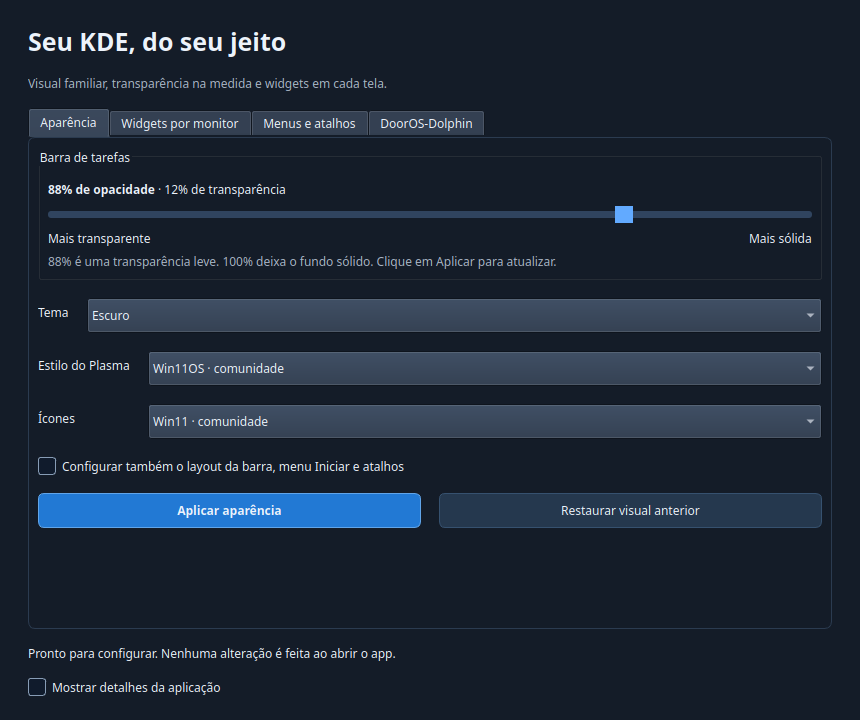
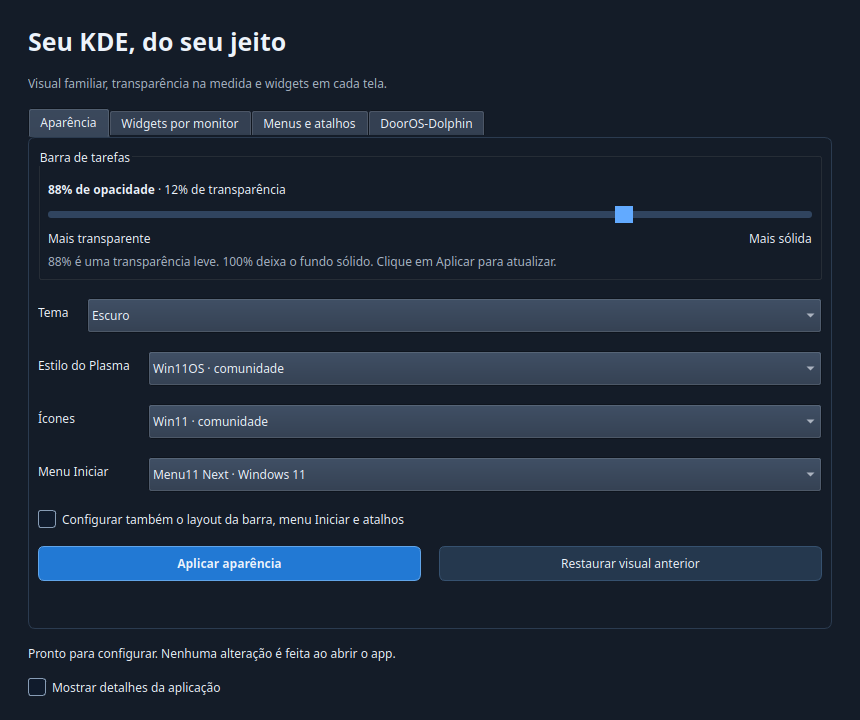
Bundle Menu11 Next and persist Windows taskbar ordering

Changed region(s): [[0.0302, 0.6111, 0.9674, 0.825]]

diff --git a/profile.py b/profile.py
@@ -34,6 +34,7 @@ OWNED += [DATA/'icons'/name for name in [ICON_NAME, ICON_NAME+'-light', ICON_NAM
 OWNED += [DATA/'applications'/name for name in MENU]
 OWNED += [DATA/'icons'/name for name in ['KDEWindowsWin11','KDEWindowsWin11-dark']]
 OWNED += [DATA/'color-schemes'/name for name in ['KDEWindowsWin11Dark.colors','KDEWindowsWin11Light.colors']]
+OWNED += [DATA/'plasma/plasmoids/menu.11.next',DATA/'kde-windows-style/start-menu-icon.svg']
 META, ALT, CTRL, SHIFT = 0x10000000, 0x08000000, 0x04000000, 0x02000000
 TAB, F4 = 0x01000001, 0x01000033
 SHORTCUTS = [
@@ -275,6 +276,33 @@ def install_win11_icons():
     marker.write_text(ref)
 
 
+def install_menu11():
+    archive=ROOT/'vendor/menu11-next.tar.gz'
[1 lines of base64/hex data omitted]
+    if not archive.is_file() or hashlib.sha256(archive.read_bytes()).hexdigest()!=digest:
+        raise RuntimeError('Menu11 Next incluso ausente ou corrompido.')
+    target=DATA/'plasma/plasmoids/menu.11.next'
+    with tempfile.TemporaryDirectory() as temp:
+        with tarfile.open(archive) as tar:
+            tar.extractall(temp,filter='data')
+        meta=json.loads((Path(temp)/'metadata.json').read_text())
+        if meta['KPlugin']['Id']!='menu.11.next':raise RuntimeError('Pacote Menu11 inesperado.')
+        if target.exists():shutil.rmtree(target)
+        shutil.copytree(temp,target)
+    print('Menu11 Next 1.3 instalado, de Eisteed.')
+
+
+def install_start_icon():
+    target=DATA/'kde-windows-style/start-menu-icon.svg'
+    with tarfile.open(community_archive('win11-icons')) as tar:
+        suffix='/src/apps/scalable/distributor-logo-windows.svg'
+        members=[entry for entry in tar.getmembers() if entry.name.endswith(suffix) and entry.isfile()]
+        if len(members)!=1:raise RuntimeError('Ícone Iniciar não encontrado no pacote Win11.')
+        target.parent.mkdir(parents=True,exist_ok=True)
+        target.write_bytes(tar.extractfile(members[0]).read())
+    return target.as_uri()
+
+
 def desktop_exec(args):
     def quote(text):
         for char in ('\\', '"', '`', '$'):
@@ -304,8 +332,10 @@ def install_menu():
         run('kbuildsycoca6', '--noincremental')
 
 
-def apply_panel(community_icons=True):
-    icon = 'view-app-grid' if community_icons else 'start-here-kde'
+def apply_panel(launcher='menu11'):
+    if launcher=='menu11':install_menu11()
+    icon=install_start_icon()
+    menu_type='menu.11.next' if launcher=='menu11' else 'org.kde.plasma.kickoff'
     result = script('''
     var ps = panels();
     var panel = ps.find(p => p.location === "bottom") || ps[0] || new Panel;
@@ -315,9 +345,16 @@ def apply_panel(community_icons=True):
     function ensure(type) {
         return panel.widgets().find(w => w.type === type) || panel.addWidget(type);
     }
-    var menu = ensure("org.kde.plasma.kickoff");
+    var menu = ensure(%s);
+    panel.widgets().forEach(function(w) {
+        if (["menu.11.next","org.kde.plasma.kickoff","org.kde.plasma.kicker","org.kde.plasma.kickerdash"].indexOf(w.type)>=0 && w.id!==menu.id) w.remove();
+    });
     menu.currentConfigGroup = ["General"];
     menu.writeConfig("icon", %s);
+    if (menu.type === "menu.11.next") {
+        menu.writeConfig("displayPosition", 0); menu.writeConfig("showAtCenter", false);
+        menu.writeConfig("numberRows", 3);
+    }
     var tasks = ensure("org.kde.plasma.icontasks");
     var tray = ensure("org.kde.plasma.systemtray");
     var clock = ensure("org.kde.plasma.digitalclock");
@@ -326,11 +363,12 @@ def apply_panel(community_icons=True):
     var all = panel.widgets();
     var middle = all.filter(w => [menu.id, tasks.id, tray.id, clock.id, desktop.id].indexOf(w.id) < 0);
     panel.currentConfigGroup = ["General"];
-    panel.writeConfig("AppletOrder", [menu.id, tasks.id].concat(middle.map(w => w.id)).concat([tray.id, clock.id, desktop.id]).join(";"));
-    print(JSON.stringify({id:panel.id, opacity:panel.opacity, height:panel.height}));
-    ''' % json.dumps(icon))
+    var order = [menu.id, tasks.id].concat(middle.map(w => w.id)).concat([tray.id, clock.id, desktop.id]).join(";");
+    panel.writeConfig("AppletOrder", order);
+    print(JSON.stringify({id:panel.id, order:order, opacity:panel.opacity, height:panel.height}));
+    ''' % (json.dumps(menu_type),json.dumps(icon)))
     print('Painel configurado:', result)
-    return json.loads(result)['id']
+    return json.loads(result)
 
 
 def prerequisites(icons):
@@ -361,6 +399,7 @@ def main():
     parser.add_argument('--theme', choices=['dark', 'light'], default='dark')
     parser.add_argument('--style', choices=['win11','breeze'], default='win11')
     parser.add_argument('--icon-theme', choices=['win11','fluent'], default='win11')
+    parser.add_argument('--launcher', choices=['menu11','kickoff'], default='menu11')
     args = parser.parse_args()
     if not 50 <= args.opacity <= 100:
         parser.error('--opacity deve ficar entre 50 e 100')
@@ -398,9 +437,12 @@ def main():
                 write_config('kwinrc', 'org.kde.kdecoration2', 'ButtonsOnLeft', '')
                 write_config('kwinrc', 'org.kde.kdecoration2', 'ButtonsOnRight', 'IAX')
                 write_config('kwinrc', 'ModifierOnlyShortcuts', 'Meta', 'org.kde.plasmashell,/PlasmaShell,org.kde.PlasmaShell,activateLauncherMenu')
-                panel_id = apply_panel(not args.no_icons)
+                panel_state = apply_panel(args.launcher)
+                panel_id = panel_state['id']
+                panel_order = panel_state['order']
                 set_shortcuts()
             else:
+                panel_order = None
                 panel_id = int(script('var p=panels().find(p=>p.location==="bottom") || panels()[0]; if(!p) throw new Error("Nenhuma barra encontrada"); print(p.id);'))
             run('qdbus6', 'org.kde.KWin', '/KWin', 'org.kde.KWin.reconfigure')
             # Some Plasma versions apply opacity live but omit its persistent key.
@@ -408,6 +450,10 @@ def main():
             try:
                 run('kwriteconfig6', '--file', CONFIG/'plasmashellrc', '--group', 'PlasmaViews',
                     '--group', f'Panel {panel_id}', '--key', 'panelOpacity', '2')
+                if panel_order is not None:
+                    run('kwriteconfig6', '--file', CONFIG/'plasma-org.kde.plasma.desktop-appletsrc',
+                        '--group', 'Containments', '--group', str(panel_id), '--group', 'General',
+                        '--key', 'AppletOrder', panel_order)
             finally:
                 start_plasma()
         except (Exception, KeyboardInterrupt):

diff --git a/gui.py b/gui.py
@@ -93,9 +93,13 @@ class Window(QMainWindow):
         form.addRow('Estilo do Plasma',self.style)
         self.icons=QComboBox(); self.icons.addItem('Win11 · comunidade','win11'); self.icons.addItem('Fluent · comunidade','fluent'); self.icons.addItem('Manter os ícones atuais','keep')
         self.icons.setCurrentIndex(max(0,self.icons.findData(self.prefs.get('icon_theme','win11'))))
-        form.addRow('Ícones',self.icons); layout.addLayout(form)
+        form.addRow('Ícones',self.icons)
+        self.launcher=QComboBox();self.launcher.addItem('Menu11 Next · Windows 11','menu11');self.launcher.addItem('Menu nativo do KDE · Kickoff','kickoff')
+        self.launcher.setCurrentIndex(max(0,self.launcher.findData(self.prefs.get('launcher','menu11'))))
+        form.addRow('Menu Iniciar',self.launcher);layout.addLayout(form)
         self.layout_options = QCheckBox('Configurar também o layout da barra, menu Iniciar e atalhos')
         self.layout_options.setChecked(not (STATE/'original').exists()); layout.addWidget(self.layout_options)
+        self.launcher.currentIndexChanged.connect(lambda _index:self.layout_options.setChecked(True))
         row = QHBoxLayout()
         row.addWidget(button('Aplicar aparência', self.apply_style))
         row.addWidget(button('Restaurar visual anterior', self.restore_style))
@@ -260,7 +264,7 @@ class Window(QMainWindow):
 
     def apply_style(self):
         args=['--opacity',str(self.opacity.value()),'--theme',self.theme.currentData()]
-        args+=['--style',self.style.currentData()]
+        args+=['--style',self.style.currentData(),'--launcher',self.launcher.currentData()]
         if self.icons.currentData()=='keep':args.append('--no-icons')
         else:args+=['--icon-theme',self.icons.currentData()]
         if not self.layout_options.isChecked():args.append('--appearance-only')
@@ -298,7 +302,7 @@ class Window(QMainWindow):
             self.status.setText('Pronto. Configuração aplicada.')
             CONFIG.parent.mkdir(parents=True,exist_ok=True)
             temporary=CONFIG.with_suffix('.tmp')
-            temporary.write_text(json.dumps(dict(opacity=self.opacity.value(),theme=self.theme.currentData(),icon_theme=self.icons.currentData(),style=self.style.currentData())))
+            temporary.write_text(json.dumps(dict(opacity=self.opacity.value(),theme=self.theme.currentData(),icon_theme=self.icons.currentData(),style=self.style.currentData(),launcher=self.launcher.currentData())))
             temporary.replace(CONFIG)
             self.layout_options.setChecked(False)
         else:

diff --git a/tests/test_profile.py b/tests/test_profile.py
@@ -90,3 +90,22 @@ class ProfileTests(unittest.TestCase):
         with patch.object(p,'SHORTCUTS',[('kwin','Overview',[p.META|p.TAB])]), patch.object(p,'accel',side_effect=fake):
             p.set_shortcuts()
         self.assertIn(('setForeignShortcutKeys',(p.action('kwin','Overview'),'[([285212673, 0, 0, 0],)]')),calls)
+
+    def test_panel_order_is_persisted_only_while_shell_is_stopped(self):
+        calls=[]
+        with tempfile.TemporaryDirectory() as tmp:
+            state=Path(tmp)/'state'
+            def record(*args,**kwargs):calls.append(args);return ''
+            with patch.object(p.sys,'argv',['profile.py','--no-icons','--style','breeze']), \
+                 patch.object(p,'STATE',state),patch.object(p,'prerequisites'), \
+                 patch.object(p,'backup',return_value=Path(tmp)/'backup'),patch.object(p,'install_menu'), \
+                 patch.object(p,'install_theme'),patch.object(p,'write_config'),patch.object(p,'set_shortcuts'), \
+                 patch.object(p,'apply_panel',return_value={'id':3,'order':'28;6;8;23;24'}), \
+                 patch.object(p,'run',side_effect=record), \
+                 patch.object(p,'stop_plasma',side_effect=lambda:calls.append(('stop',))), \
+                 patch.object(p,'start_plasma',side_effect=lambda:calls.append(('start',))):
+                p.main()
+        order_call=next(i for i,args in enumerate(calls) if 'AppletOrder' in args)
+        self.assertLess(calls.index(('stop',)),order_call)
+        self.assertLess(order_call,calls.index(('start',)))
+        self.assertEqual(calls[order_call][-1],'28;6;8;23;24')

diff --git a/README.md b/README.md
@@ -36,6 +36,7 @@ compilação ou download de temas. O pacote inclui:
 
 - interface Qt/Python e seus wheels PySide6/Shiboken;
 - Win11 icon theme e Win11OS Plasma Theme, de yeyushengfan258;
+- Menu11 Next 1.3, de Eisteed, para um menu no estilo Windows 11;
 - Fluent icon theme, de vinceliuice, como alternativa;
 - DoorOS-Dolphin pré-compilado para Ubuntu 26.04, além dos fontes;
 - scripts, instruções, licenças e ferramentas de restauração.
@@ -51,13 +52,15 @@ redistribuídos como uma máquina virtual. O pacote usa os componentes do KDE in
 - Tema claro ou escuro.
 - Estilo Win11OS da comunidade ou Breeze do KDE.
 - Ícones Win11, Fluent ou manter os ícones atuais.
+- Menu11 Next ou o menu nativo Kickoff. O botão Iniciar usa o ícone azul do pacote Win11, sem desenho novo.
 - Opção para configurar também layout, menu Iniciar e atalhos.
-- Painel inferior de 48 px, menu à esquerda, tarefas com ícones, bandeja, relógio e mostrar desktop.
+- Painel inferior de 48 px, menu à esquerda, tarefas com ícones, bandeja, relógio e mostrar desktop. A ordem é persistida com o Plasma parado, evitando que o novo botão Iniciar seja jogado para a direita durante a inicialização.
 - Duplo clique para abrir arquivos, com os botões das janelas à direita.
 
 Para ajustar só a aparência e a opacidade, deixe desmarcada **Configurar também o
 layout da barra, menu Iniciar e atalhos**. Assim seus widgets e atalhos atuais são mantidos.
 A intensidade final depende também da arte do tema e dos efeitos do compositor.
+Ao aplicar também o layout, o lançador anterior da barra principal é substituído pelo selecionado; a restauração recupera o lançador do backup.
 A barra principal é o primeiro painel inferior; os demais painéis são preservados.
 O app não troca seu wallpaper nem apaga jogos, arquivos ou aplicativos.
 
@@ -144,7 +147,7 @@ a barra pode desaparecer por alguns segundos. Uma falha tenta restaurar o backup
 
 ```bash
 ./kde-windows-style.sh --dry-run
-./kde-windows-style.sh --opacity 90 --style win11 --icon-theme win11 --theme dark
+./kde-windows-style.sh --opacity 90 --style win11 --icon-theme win11 --launcher menu11 --theme dark
 ./kde-windows-style.sh --appearance-only --opacity 94 --no-icons --style breeze
 ./launch.sh
 ```

diff --git a/THIRD_PARTY.md b/THIRD_PARTY.md
@@ -8,6 +8,7 @@ abaixo mantém seus avisos de autoria e condições de licença.
 | Win11 icon theme | [yeyushengfan258/Win11-icon-theme](https://github.com/yeyushengfan258/Win11-icon-theme) | `a5b460a407da143b32f19a503d7fcebb3edf2371` | GPL-3.0 |
 | Win11OS Plasma Theme | [yeyushengfan258/Win11OS-kde](https://github.com/yeyushengfan258/Win11OS-kde) | `9f021c3e71da7baf59a0614ab858d53b1e455fd5` | GPL-3.0 |
 | Fluent icon theme | [vinceliuice/Fluent-icon-theme](https://github.com/vinceliuice/Fluent-icon-theme) | `c8a244f571ef8fb47812bdc9dbce76546cedce69` | GPL-3.0 |
+| Menu11 Next | [Eisteed/menu-11-next](https://github.com/Eisteed/menu-11-next), [KDE Store](https://store.kde.org/p/2298292) | 1.3 | GPL-2.0-or-later conforme metadados e cabeçalhos do pacote |
 | DoorOS-Dolphin | [Rk7gamerYT/DoorOS-Dolphin](https://github.com/Rk7gamerYT/DoorOS-Dolphin) | `a5b4f9186ed146f1e7804fada86cde8277a0df97` | Alterações GPL-2.0-or-later; upstream por arquivo |
 | PySide6 Essentials / Shiboken6 | [Qt for Python](https://www.qt.io/qt-for-python) | 6.12.0 | LGPL-3.0 / GPL e avisos de componentes incluídos nos wheels |
 | Breeze, quando selecionado | KDE, já instalado no sistema | versão do sistema | Avisos do tema Breeze (LGPL) |
@@ -29,3 +30,6 @@ Checksums de temas e ícones: `community_assets.py` e `profile.py`.
 Checksum dos fontes DoorOS: `dooros.py`.
 Checksums dos wheels: `vendor/wheels/SHA256SUMS.json`.
 Checksum do pacote completo: arquivo `.sha256` junto da Release.
+
+O ícone do botão Iniciar é `src/apps/scalable/distributor-logo-windows.svg` do pacote Win11 acima, copiado sem redesenho.
[1 lines of base64/hex data omitted]
